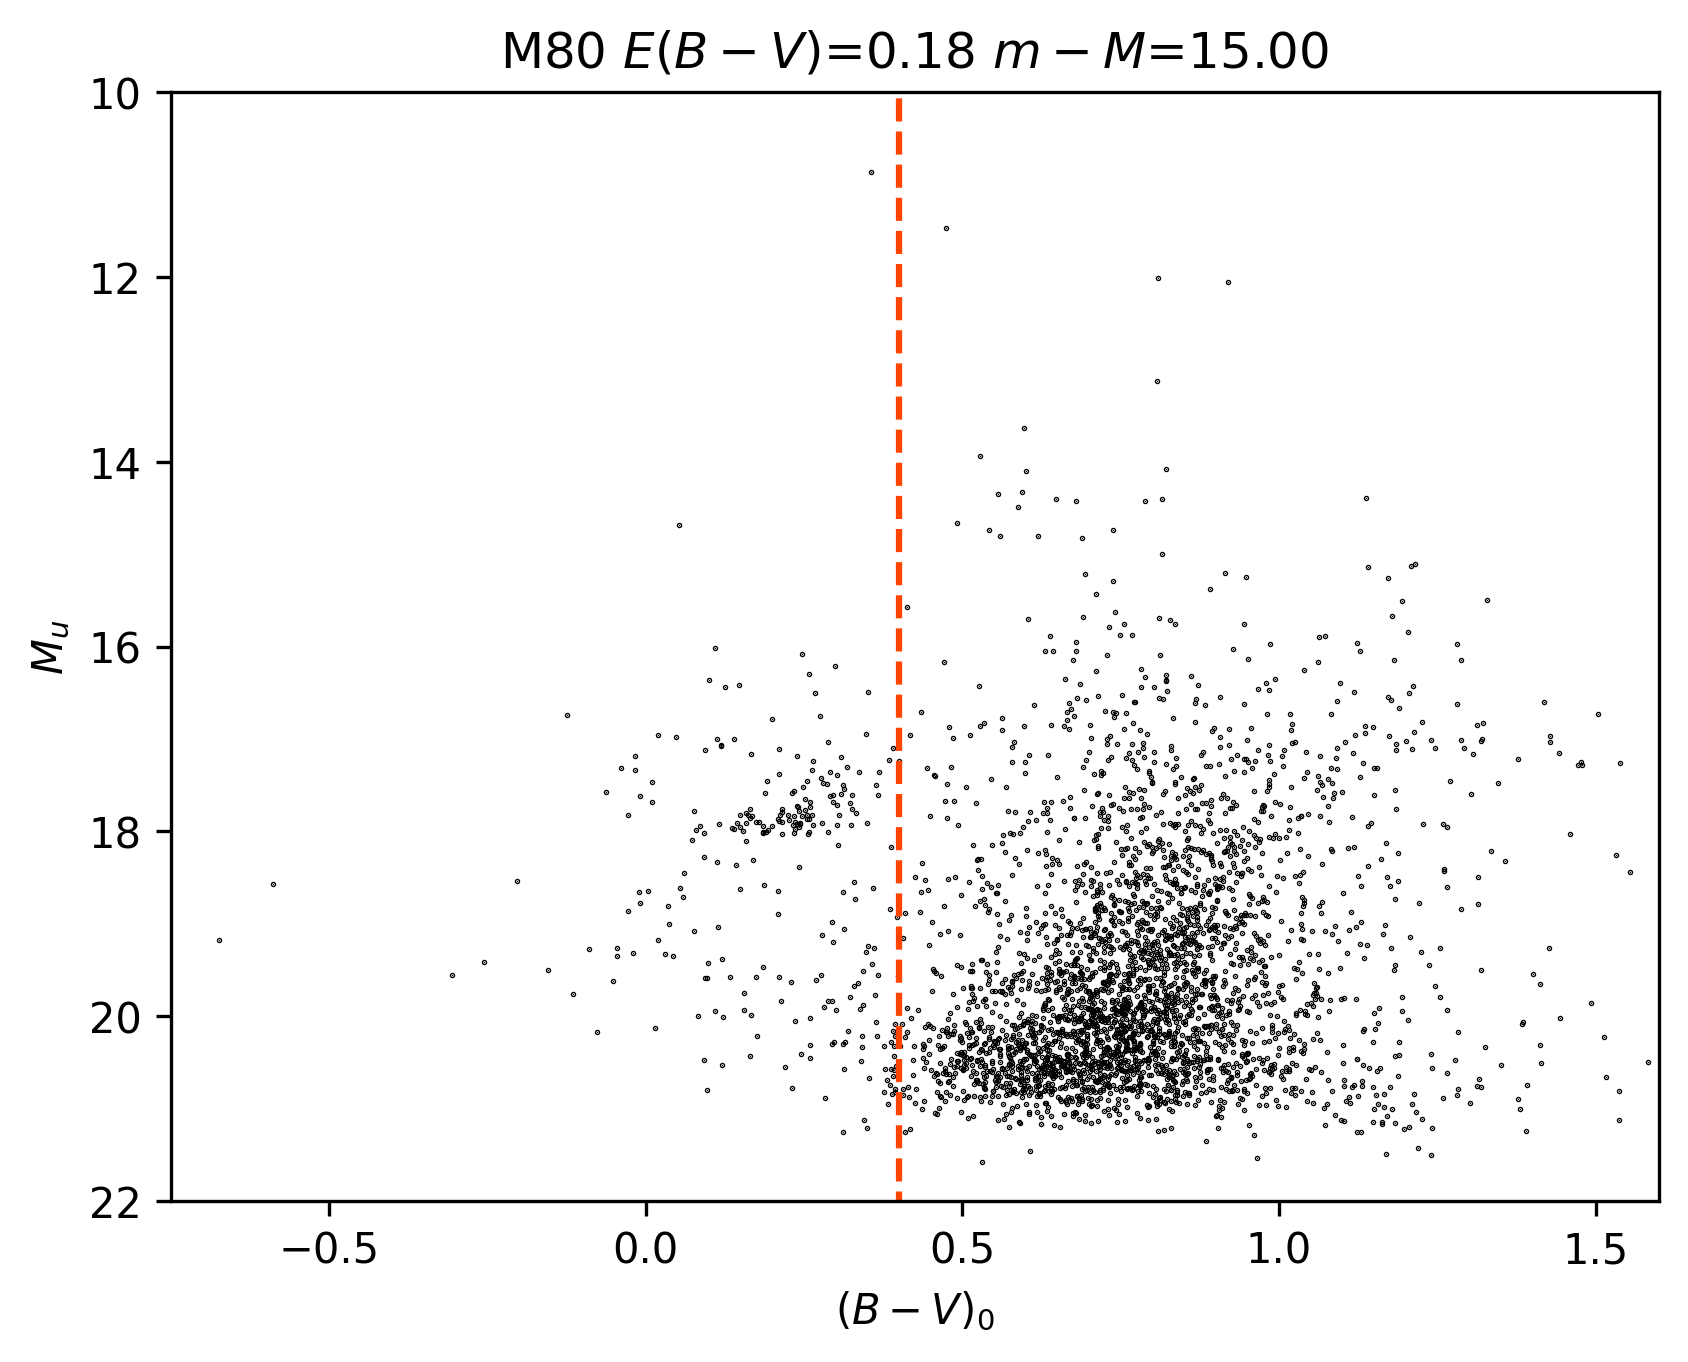
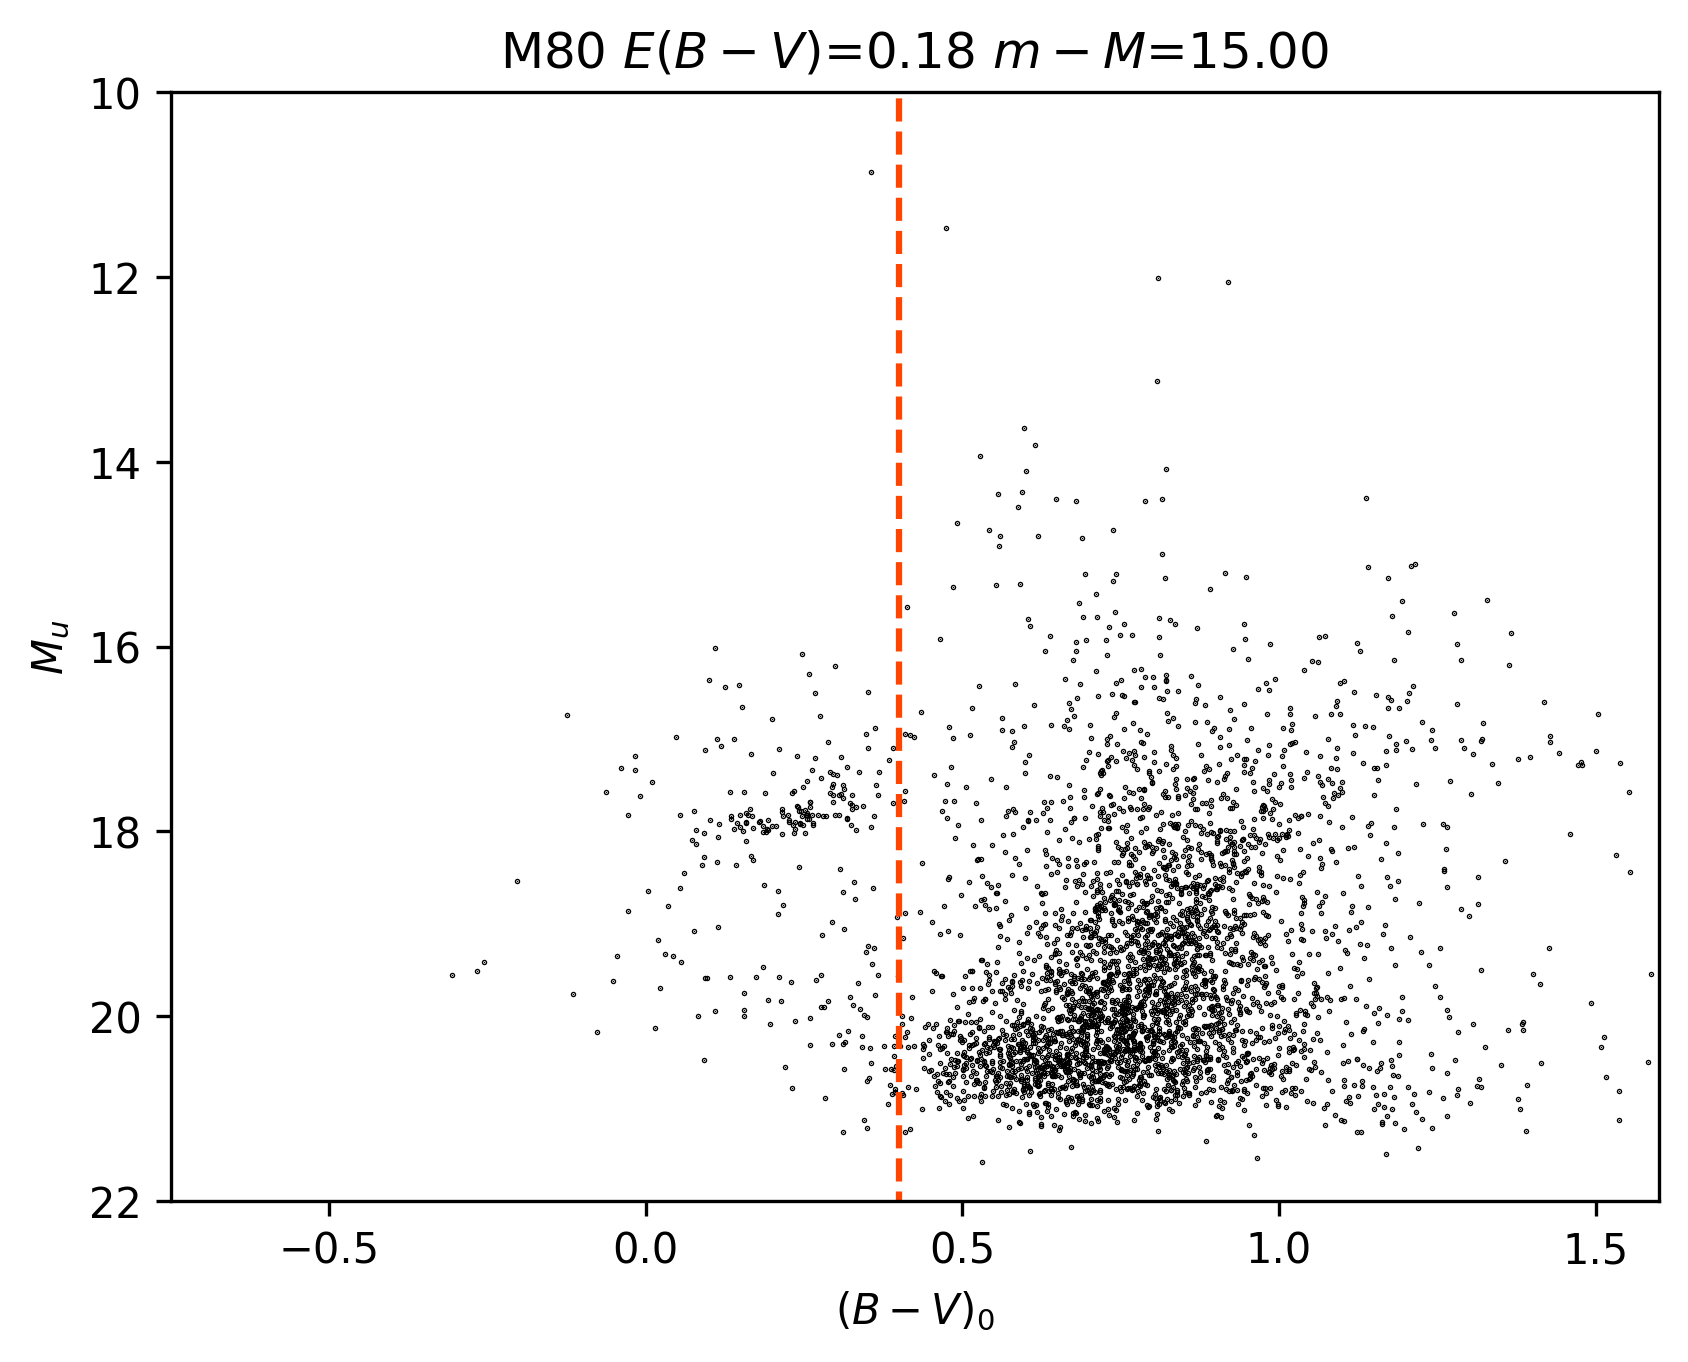
Fixed nonMember code to properly account for parallax cond

Changed region(s): [[0.5237, 0.5551, 0.7701, 0.8326], [0.4313, 0.5859, 0.5237, 0.6167]]

diff --git a/commonChecker.py b/commonChecker.py
@@ -1,6 +1,7 @@
 import numpy as np
 import pandas as pd
 from astropy.table import Table
+import matplotlib.pyplot as plt
 
 df = pd.read_csv("clusterMembers/M79_memberStars_6.dat", delimiter="\t", skiprows=2)
 
@@ -56,4 +57,43 @@ dat1 = dat[ind]
 
 moo = np.where(dat1["col1"]==10002)[0]
 
-print(dat1[moo])
+# print(dat1[moo])
+
+df2 = Table.read("clusterMembers/M14_memberStars_6.dat", format="ascii", delimiter="\s")
+df3 = Table.read("candStars/candStarMasterList/M14_candStarsMaster_testing.dat", format="ascii", delimiter="\s")
+# print(df2)
+
+vRaw = df2['col14']
+B = df2['col13']
+bvRaw = B-vRaw
+
+v = df2['col11']
+b = df2['col10']
+bv = b-v
+
+vRaw1 = df3['col14']
+B1 = df3['col13']
+bvRaw1 = B1-vRaw1
+
+v1 = df3['col11']
+b1 = df3['col10']
+bv1 = b1-v1
+
+def model_f(x,a,b,c,d,e,f,g,k):
+    x=x+k
+    return a*x**6+b*x**5+c*x**4+d*x**3+e*x**2+f*x+g
+
+fig, ax = plt.subplots()
+ax.scatter(bv, v, c='k', s=0.1)
+# ax.scatter(bvhb,vhb,c='b',s=2)
+ax.scatter(bv1, v1, c='orangered', s=5, marker="o")
+xplot = np.linspace(bv1.min(), bv1.max(), len(bv1))
+# -3.74, 7.03, 6.83, -19.86, 8.98, -1.51, 0.35, -0.15
+y = model_f(xplot, -3.74, 7.03, 6.83, -19.86, 8.98, -1.51, 0.35,-0.15)
+ax.plot(bv1, y, color="red", linestyle="--")
+# ax.set_title("{} $E(B-V)$={:.2f} $m-M$={:.2f}".format(clusterName, ebv, distModulus))
+ax.set_xlim(-0.75, 1.3)
+ax.set_ylim(5,-4)
+ax.set_xlabel('$B-V$')
+ax.set_ylabel('$V$')
+plt.show()

diff --git a/trial.py b/trial.py
@@ -225,6 +225,7 @@ def DBSCANPlots(bv,v,b,u,vi,ub,ubbv,clusterName,cond,dist,raClust,decClust,c,r_c
     ## Plotting for stars not in cluster
     notInTidalRadCond = np.where(angSep>tidalRad)[0]
     notInParCond = np.where(parDiff > 3*parStarErr)[0]
+    notInParCond = indSiegel[notInParCond]
     notInClust = np.where(labels != 0)[0]
 
     nonMemberCond = np.concatenate((notInTidalRadCond, notInParCond, notInClust))
@@ -257,6 +258,7 @@ def DBSCANPlots(bv,v,b,u,vi,ub,ubbv,clusterName,cond,dist,raClust,decClust,c,r_c
     ############RAW STAR MAG CMDS######################
 
     bvRaw = bRaw - vRaw
+
 
     fig, ax = plt.subplots()
     ax.scatter(bvRaw[indAll], vRaw[indAll], c='k', s=0.1)
@@ -351,6 +353,7 @@ def DBSCANPlots(bv,v,b,u,vi,ub,ubbv,clusterName,cond,dist,raClust,decClust,c,r_c
     bvRaw = bRaw - vRaw
     fig, ax = plt.subplots()
     ax.scatter(bvRaw[notInClustSiegel], vRaw[notInClustSiegel], c='k', s=0.1)
+    ax.scatter(bvRaw[notInClustSiegel][3684], vRaw[notInClustSiegel][3684], c='orangered', s=5)
     ax.set_xlim(-0.75, 1.6)
     ax.set_ylim(22, 10)
     ax.set_xlabel('($B-V$)$_0$')
